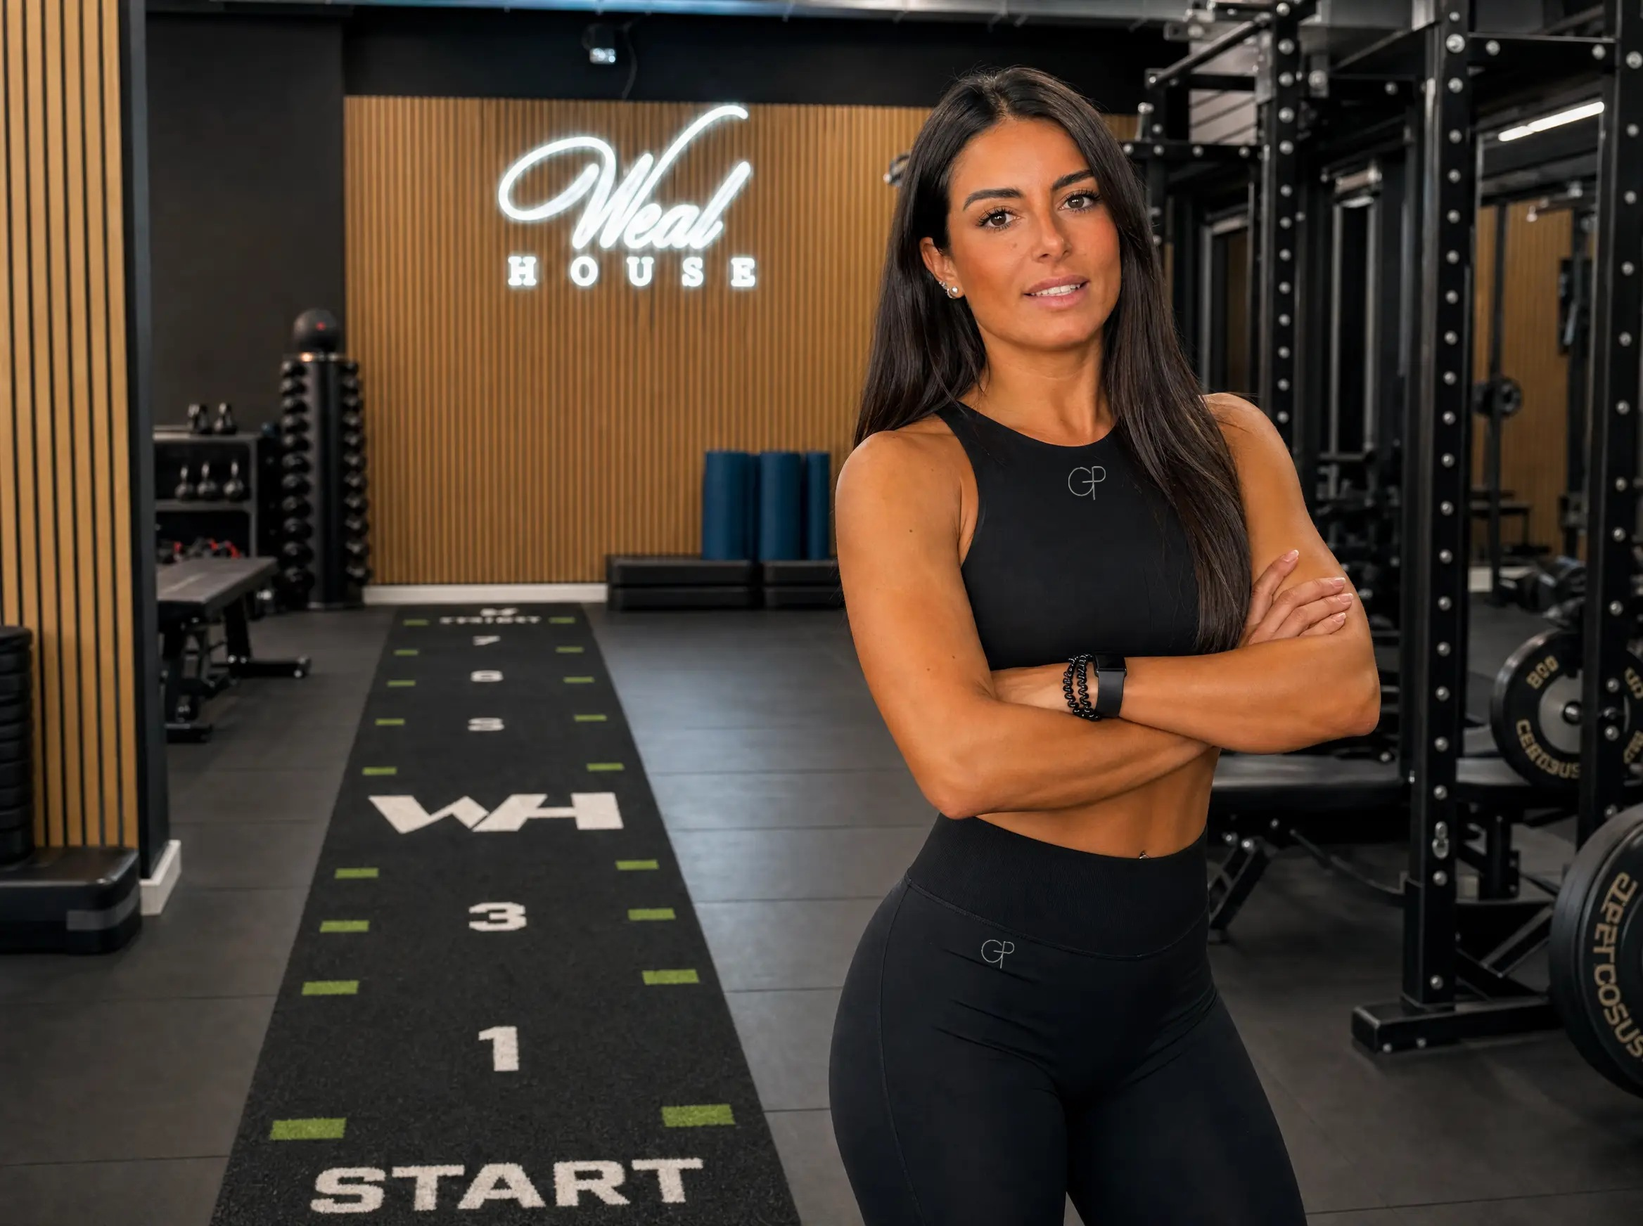
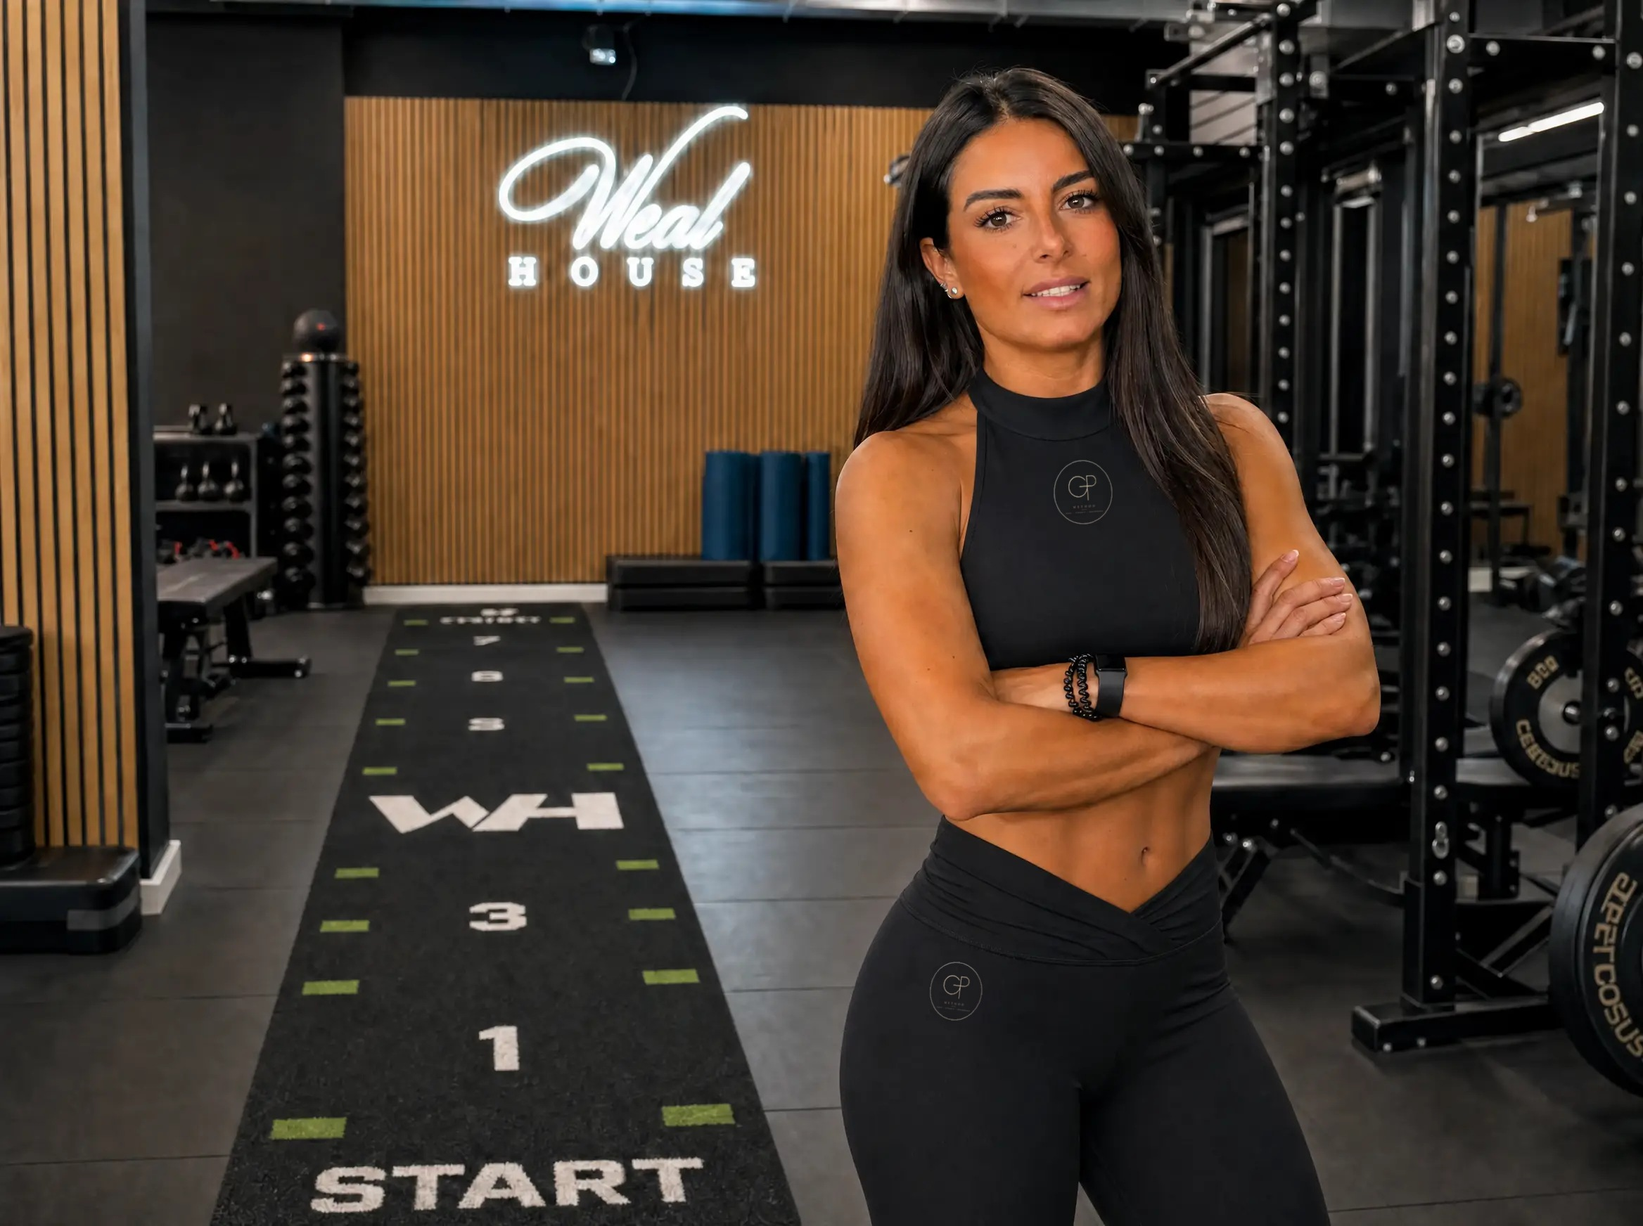
Hero a tutto schermo con header trasparente

diff --git a/chiaro/index.html b/chiaro/index.html
@@ -6,6 +6,7 @@
   <title>GP METHOD | Coaching online di Giorgia Piras</title>
   <meta name="description" content="Coaching online di Giorgia Piras, personal trainer a Roma: shape, strength e performance in cicli di 6 settimane. Tre livelli, da €149.">
   <meta name="theme-color" content="#EFE9E2">
+  <meta name="apple-mobile-web-app-status-bar-style" content="black-translucent">
   <meta name="color-scheme" content="light">
   <meta name="robots" content="noindex">
   <link rel="canonical" href="https://rodrigoapr01.github.io/gp-method/">
@@ -35,7 +36,7 @@
 <body class="is-home">
   <a class="skip" href="#main">Vai al contenuto</a>
   <header class="top">
-    <a class="brand" href="index.html"><picture><source type="image/webp" sizes="80px" srcset="../assets/brand/GP-logo-metallo-scuro-160.webp 160w, ../assets/brand/GP-logo-metallo-scuro-320.webp 320w, ../assets/brand/GP-logo-metallo-scuro-640.webp 640w"><img class="brand-logo" src="../assets/brand/GP-logo-metallo-scuro.png" width="80" height="80" alt="GP METHOD" fetchpriority="high" decoding="async"></picture></a>
+    <a class="brand" href="index.html"><picture><source media="(min-width: 900px)" type="image/webp" sizes="80px" srcset="../assets/brand/GP-logo-metallo-scuro-160.webp 160w, ../assets/brand/GP-logo-metallo-scuro-320.webp 320w, ../assets/brand/GP-logo-metallo-scuro-640.webp 640w"><source type="image/webp" sizes="80px" srcset="../assets/brand/GP-logo-metallo-chiaro-160.webp 160w, ../assets/brand/GP-logo-metallo-chiaro-320.webp 320w, ../assets/brand/GP-logo-metallo-chiaro-640.webp 640w"><img class="brand-logo" src="../assets/brand/GP-logo-metallo-chiaro.png" width="80" height="80" alt="GP METHOD" fetchpriority="high" decoding="async"></picture></a>
     <nav class="top-nav" aria-label="Principale"><a href="index.html#metodo">Metodo</a><a href="livelli.html">Livelli</a><a href="chi-sono.html">Chi sono</a></nav>
     <a class="btn btn--secondary btn--sm top-wa" data-wa="Ciao Giorgia, vorrei informazioni su GP METHOD." href="#contatti"><svg class="i-wa" viewBox="0 0 24 24" aria-hidden="true" focusable="false"><path fill="none" stroke="currentColor" stroke-width="1.6" stroke-linejoin="round" d="M20.5 11.7a8.4 8.4 0 0 1-12.4 7.4L3.5 20.5l1.4-4.4a8.4 8.4 0 1 1 15.6-4.4z"/><path fill="currentColor" d="M9.1 7.9c.2-.4.4-.4.6-.4h.5c.2 0 .4 0 .5.3l.7 1.7c.1.2 0 .4-.1.6l-.5.6c-.1.1-.2.3 0 .5a5.6 5.6 0 0 0 2.6 2.3c.2.1.4.1.5-.1l.7-.8c.2-.2.3-.2.5-.1l1.6.8c.2.1.3.2.3.3v.5c0 .5-.4 1.1-1 1.3-.6.3-1.6.3-3-.3a8.6 8.6 0 0 1-3.7-3.5c-.7-1.2-.6-2.3-.2-3.2z"/></svg><span>Scrivimi</span></a>
     <button class="menu-btn" type="button" aria-haspopup="dialog" aria-controls="menu" aria-label="Apri il menu"><span></span><span></span></button>
@@ -63,10 +64,10 @@
       </div>
       <figure class="hero-photo">
         <picture>
-          <source media="(max-width: 767px)" type="image/webp" srcset="../assets/hero/GP_hero_giorgia_mobile_5x4-900.webp?v=4 900w, ../assets/hero/GP_hero_giorgia_mobile_5x4.webp?v=4 2180w" sizes="100vw" width="2180" height="1744">
-          <source media="(max-width: 767px)" srcset="../assets/hero/GP_hero_giorgia_mobile_5x4.jpg?v=4" width="2180" height="1744">
-          <source type="image/webp" srcset="../assets/hero/GP_hero_giorgia_4x3-1280.webp?v=4 1280w, ../assets/hero/GP_hero_giorgia_4x3.webp?v=4 2336w" sizes="100vw" width="2336" height="1744">
-          <img src="../assets/hero/GP_hero_giorgia_4x3.jpg?v=4" width="2336" height="1744" alt="Giorgia Piras, personal trainer, nella palestra Weal House a Roma" fetchpriority="high" decoding="async">
+          <source media="(max-width: 767px)" type="image/webp" srcset="../assets/hero/GP_hero_giorgia_mobile_4x5-900.webp?v=5 900w, ../assets/hero/GP_hero_giorgia_mobile_4x5.webp?v=5 1395w" sizes="100vw" width="1395" height="1744">
+          <source media="(max-width: 767px)" srcset="../assets/hero/GP_hero_giorgia_mobile_4x5.jpg?v=5" width="1395" height="1744">
+          <source type="image/webp" srcset="../assets/hero/GP_hero_giorgia_4x3-1280.webp?v=5 1280w, ../assets/hero/GP_hero_giorgia_4x3.webp?v=5 2336w" sizes="100vw" width="2336" height="1744">
+          <img src="../assets/hero/GP_hero_giorgia_4x3.jpg?v=5" width="2336" height="1744" alt="Giorgia Piras, personal trainer, nella palestra Weal House a Roma" fetchpriority="high" decoding="async">
         </picture>
       </figure>
     </section>

diff --git a/styles.css b/styles.css
@@ -110,6 +110,8 @@ h1 { font-size: clamp(40px, 10.6vw, 84px); line-height: 1.02; text-wrap: balance
 .brand picture, .brand-logo { display: block; }
 .brand-logo { width: 64px; height: 64px; }
 .top-wa, .menu-btn { flex-shrink: 0; }
+/* phones: only logo and menu in the header (WhatsApp is in the hero, the menu and the fixed button) */
+@media (max-width: 767px) { .top .top-wa { display: none; } }
 .top-nav { display: none; }
 .top-wa { display: inline-flex; }
 .menu-btn {
@@ -144,16 +146,21 @@ h1 { font-size: clamp(40px, 10.6vw, 84px); line-height: 1.02; text-wrap: balance
 
 /* ---------- Home: hero (Giorgia at Weal House) ---------- */
 
-/* phones and tablets: solid header, the photo right under it, then the copy */
-.is-home .top { position: relative; background: var(--nero); padding-bottom: 12px; }
+/* full-screen hero: the photo starts at the very top (under the status bar, viewport-fit=cover) and the
+   header floats over it, transparent, on a soft dark gradient so logo and menu read on any photo */
+.is-home .top::before {
+  content: ''; position: absolute; inset: 0 0 auto 0; z-index: -1; pointer-events: none;
+  height: calc(env(safe-area-inset-top, 0px) + 140px);
+  background: linear-gradient(180deg, rgba(25, 23, 22, 0.55) 0%, rgba(25, 23, 22, 0) 100%);
+}
+/* phones and tablets: photo first (at least 85svh), the copy below; the photo fades into the hero colour */
 .hero { display: grid; padding: 0 var(--gutter) calc(env(safe-area-inset-bottom, 0px) + 32px); }
-.hero-photo { position: relative; order: -1; margin: 0 calc(var(--gutter) * -1) 28px; aspect-ratio: 5 / 4; }
-.hero-photo picture { display: block; height: 100%; }
-.hero-photo img { width: 100%; height: 100%; object-fit: cover; }
-/* fades into nero: ~12% at the top, ~20% at the bottom */
+.hero-photo { position: relative; order: -1; margin: 0 calc(var(--gutter) * -1) 28px; min-height: 85vh; min-height: 85svh; }
+.hero-photo picture { position: absolute; inset: 0; display: block; }
+.hero-photo img { width: 100%; height: 100%; object-fit: cover; object-position: 60% 0%; }
 .hero-photo::after { content: ''; position: absolute; inset: 0; pointer-events: none;
-  background: linear-gradient(180deg, var(--nero) 0%, rgba(25, 23, 22, 0) 12%, rgba(25, 23, 22, 0) 80%, var(--nero) 100%); }
-@media (min-width: 768px) { .hero-photo { aspect-ratio: 4 / 3; } }
+  background: linear-gradient(180deg, rgba(25, 23, 22, 0) 0%, rgba(25, 23, 22, 0) 62%, var(--nero) 100%); }
+@media (min-width: 768px) { .hero-photo img { object-position: 70% 0%; } }
 .hero-copy { display: grid; gap: 18px; justify-items: start; }
 .hero .kicker { margin: 0; }
 .hero-name { margin: 0; font-family: var(--serif); font-weight: 500; font-size: clamp(52px, 19vw, 120px); line-height: 0.92; letter-spacing: -0.01em; }
@@ -490,10 +497,9 @@ h1 { font-size: clamp(40px, 10.6vw, 84px); line-height: 1.02; text-wrap: balance
   .top-nav a[aria-current="page"] { text-decoration: underline; text-decoration-color: var(--bronzo); }
 
   /* desktop: the 4:3 photo fills the hero, Giorgia on the right, the copy on the left over a dark gradient */
-  .is-home .top { position: absolute; background: none; padding-bottom: 0; }
   .hero { position: relative; min-height: 100vh; min-height: 100svh; padding: 0 max(var(--gutter), calc((100% - var(--max)) / 2)); isolation: isolate; }
   .hero-copy { align-self: center; max-width: min(40vw, 600px); padding: 140px 0 56px; }
-  .hero-photo { position: absolute; inset: 0; z-index: -1; margin: 0; aspect-ratio: auto; }
+  .hero-photo { position: absolute; inset: 0; z-index: -1; margin: 0; min-height: 0; }
   .hero-photo img { object-position: 70% 20%; }
   .hero-photo::after { background:
     linear-gradient(90deg, rgba(25, 23, 22, 0.85) 0%, rgba(25, 23, 22, 0.85) 36%, rgba(25, 23, 22, 0) 55%),

diff --git a/chiaro/css/tema-chiaro.css b/chiaro/css/tema-chiaro.css
@@ -34,12 +34,16 @@
   color: #E0E2DB;
 }
 
-/* hero photo on phones: fades into avorio (transparent avorio stops, so no grey band) */
-.hero-photo::after { background: linear-gradient(180deg, #EFE9E2 0%, rgba(239, 233, 226, 0) 12%, rgba(239, 233, 226, 0) 80%, #EFE9E2 100%); }
+/* hero photo on phones: fades into avorio at the bottom (transparent avorio stops, so no grey band) */
+.hero-photo::after { background: linear-gradient(180deg, rgba(239, 233, 226, 0) 0%, rgba(239, 233, 226, 0) 62%, #EFE9E2 100%); }
 
-/* header: solid avorio everywhere */
-.top { background: var(--nero); padding-bottom: 12px; }
+/* header: solid avorio on the inner pages; on the home it floats over the photo (see the hero rules) */
+.is-inner .top { background: var(--nero); padding-bottom: 12px; }
 .menu-btn span { background: var(--pietra); }
+/* home on phones: header over the photo, light on the dark gradient (light metal logo, see build-pages) */
+@media (max-width: 899px) {
+  .is-home .top .menu-btn span { background: #E0E2DB; }
+}
 
 /* buttons: primary espresso / avorio, secondary bronze border */
 .btn--primary { background: #2E2620; color: #EFE9E2; }
@@ -55,11 +59,13 @@
   .btn--dark:hover { background: #000; }
 }
 
-/* desktop hero: split, text on avorio at left, Giorgia at right (~55%), no dark gradient */
+/* desktop hero: split, text on avorio at left, Giorgia at right (~55%) from the very top, header floating over both:
+   dark metal logo on avorio, light nav over the photo with a soft dark gradient on the photo's top */
 @media (min-width: 900px) {
-  .is-home .top { position: relative; background: var(--nero); padding-bottom: 12px; }
-  .hero { min-height: calc(100vh - 104px); min-height: calc(100svh - 104px); }
-  .hero-copy { padding: 64px 0; }
+  .is-home .top::before { display: none; }
+  .is-home .top-nav a, .is-home .top .top-wa { color: #E0E2DB; }
   .hero-photo { left: 45%; }
-  .hero-photo::after { background: linear-gradient(90deg, #EFE9E2 0%, rgba(239, 233, 226, 0) 10%); }
+  .hero-photo::after { background:
+    linear-gradient(180deg, rgba(25, 23, 22, 0.55) 0%, rgba(25, 23, 22, 0) 140px),
+    linear-gradient(90deg, #EFE9E2 0%, rgba(239, 233, 226, 0) 10%); }
 }

diff --git a/index.html b/index.html
@@ -6,6 +6,7 @@
   <title>GP METHOD | Coaching online di Giorgia Piras</title>
   <meta name="description" content="Coaching online di Giorgia Piras, personal trainer a Roma: shape, strength e performance in cicli di 6 settimane. Tre livelli, da €149.">
   <meta name="theme-color" content="#191716">
+  <meta name="apple-mobile-web-app-status-bar-style" content="black-translucent">
   <meta name="color-scheme" content="dark">
   <link rel="canonical" href="https://rodrigoapr01.github.io/gp-method/">
   <meta property="og:type" content="website">
@@ -61,10 +62,10 @@
       </div>
       <figure class="hero-photo">
         <picture>
-          <source media="(max-width: 767px)" type="image/webp" srcset="assets/hero/GP_hero_giorgia_mobile_5x4-900.webp?v=4 900w, assets/hero/GP_hero_giorgia_mobile_5x4.webp?v=4 2180w" sizes="100vw" width="2180" height="1744">
-          <source media="(max-width: 767px)" srcset="assets/hero/GP_hero_giorgia_mobile_5x4.jpg?v=4" width="2180" height="1744">
-          <source type="image/webp" srcset="assets/hero/GP_hero_giorgia_4x3-1280.webp?v=4 1280w, assets/hero/GP_hero_giorgia_4x3.webp?v=4 2336w" sizes="100vw" width="2336" height="1744">
-          <img src="assets/hero/GP_hero_giorgia_4x3.jpg?v=4" width="2336" height="1744" alt="Giorgia Piras, personal trainer, nella palestra Weal House a Roma" fetchpriority="high" decoding="async">
+          <source media="(max-width: 767px)" type="image/webp" srcset="assets/hero/GP_hero_giorgia_mobile_4x5-900.webp?v=5 900w, assets/hero/GP_hero_giorgia_mobile_4x5.webp?v=5 1395w" sizes="100vw" width="1395" height="1744">
+          <source media="(max-width: 767px)" srcset="assets/hero/GP_hero_giorgia_mobile_4x5.jpg?v=5" width="1395" height="1744">
+          <source type="image/webp" srcset="assets/hero/GP_hero_giorgia_4x3-1280.webp?v=5 1280w, assets/hero/GP_hero_giorgia_4x3.webp?v=5 2336w" sizes="100vw" width="2336" height="1744">
+          <img src="assets/hero/GP_hero_giorgia_4x3.jpg?v=5" width="2336" height="1744" alt="Giorgia Piras, personal trainer, nella palestra Weal House a Roma" fetchpriority="high" decoding="async">
         </picture>
       </figure>
     </section>

diff --git a/livelli.html b/livelli.html
@@ -6,6 +6,7 @@
   <title>Livelli e prezzi | GP METHOD, coaching online</title>
   <meta name="description" content="Essential €149, Coaching €249, Elite €399: tre livelli di coaching online GP METHOD con Giorgia Piras, ogni ciclo dura 6 settimane.">
   <meta name="theme-color" content="#191716">
+  <meta name="apple-mobile-web-app-status-bar-style" content="black-translucent">
   <meta name="color-scheme" content="dark">
   <link rel="canonical" href="https://rodrigoapr01.github.io/gp-method/livelli.html">
   <meta property="og:type" content="website">

diff --git a/chiaro/livelli.html b/chiaro/livelli.html
@@ -6,6 +6,7 @@
   <title>Livelli e prezzi | GP METHOD, coaching online</title>
   <meta name="description" content="Essential €149, Coaching €249, Elite €399: tre livelli di coaching online GP METHOD con Giorgia Piras, ogni ciclo dura 6 settimane.">
   <meta name="theme-color" content="#EFE9E2">
+  <meta name="apple-mobile-web-app-status-bar-style" content="black-translucent">
   <meta name="color-scheme" content="light">
   <meta name="robots" content="noindex">
   <link rel="canonical" href="https://rodrigoapr01.github.io/gp-method/livelli.html">

diff --git a/chi-sono.html b/chi-sono.html
@@ -6,6 +6,7 @@
   <title>Chi sono | Giorgia Piras, GP METHOD</title>
   <meta name="description" content="Giorgia Piras, personal trainer a Roma. Co-fondatrice di Weal House. La palestra di Via Michele Amari 51 dove nasce GP METHOD.">
   <meta name="theme-color" content="#191716">
+  <meta name="apple-mobile-web-app-status-bar-style" content="black-translucent">
   <meta name="color-scheme" content="dark">
   <link rel="canonical" href="https://rodrigoapr01.github.io/gp-method/chi-sono.html">
   <meta property="og:type" content="website">

diff --git a/chiaro/chi-sono.html b/chiaro/chi-sono.html
@@ -6,6 +6,7 @@
   <title>Chi sono | Giorgia Piras, GP METHOD</title>
   <meta name="description" content="Giorgia Piras, personal trainer a Roma. Co-fondatrice di Weal House. La palestra di Via Michele Amari 51 dove nasce GP METHOD.">
   <meta name="theme-color" content="#EFE9E2">
+  <meta name="apple-mobile-web-app-status-bar-style" content="black-translucent">
   <meta name="color-scheme" content="light">
   <meta name="robots" content="noindex">
   <link rel="canonical" href="https://rodrigoapr01.github.io/gp-method/chi-sono.html">

diff --git a/tools/build-pages.py b/tools/build-pages.py
@@ -17,6 +17,7 @@ WA_ICON = ('<svg class="i-wa" viewBox="0 0 24 24" aria-hidden="true" focusable="
 # official logo: the round metal logo without background (assets/brand): the light metal on the dark pages,
 # the dark metal on /chiaro/ (swapped in write_chiaro). The flat files in assets/brand/lineare stay for print only.
 LOGO_ROUND = "assets/brand/GP-logo-metallo-chiaro"
+LOGO_DARK = "assets/brand/GP-logo-metallo-scuro"
 FAVICON = "assets/brand/favicon"
 
 
@@ -46,7 +47,15 @@ def wa_btn(msg, label, cls="btn btn--primary"):
 
 def write_chiaro(file, html):
     import re
+    if file == "index.html":
+        # home header: over the photo on phones (light metal), over avorio from 900px (dark metal)
+        a = html.index('<header class="top">'); b = html.index('</header>', a)
+        head = html[a:b].replace('<picture><source type="image/webp"',
+                                 '<picture><source media="(min-width: 900px)" type="image/webp" sizes="80px" srcset="'
+                                 f'{LOGO_DARK}-160.webp 160w, {LOGO_DARK}-320.webp 320w, {LOGO_DARK}-640.webp 640w"><source type="image/webp"', 1)
+        html = html[:a] + head.replace("GP-logo-metallo-chiaro", "@@KEEP@@") + html[b:]
     html = html.replace("GP-logo-metallo-chiaro", "GP-logo-metallo-scuro")  # dark metal on avorio
+    html = html.replace("@@KEEP@@", "GP-logo-metallo-chiaro")
     html = re.sub(r'(?<=["\s,])assets/', '../assets/', html)  # every local asset, srcset entries included
     html = html.replace('href="styles.css">', 'href="../styles.css">\n  <link rel="stylesheet" href="css/tema-chiaro.css">')
     html = html.replace('src="main.js"', 'src="../main.js"')
@@ -69,6 +78,7 @@ def page(file, title, desc, body, wa_msg, extra_head="", home=False):
   <title>{title}</title>
   <meta name="description" content="{desc}">
   <meta name="theme-color" content="#191716">
+  <meta name="apple-mobile-web-app-status-bar-style" content="black-translucent">
   <meta name="color-scheme" content="dark">
   <link rel="canonical" href="{BASE}{'' if file == 'index.html' else file}">
   <meta property="og:type" content="website">
@@ -196,10 +206,10 @@ home = f"""    <section class="hero" aria-labelledby="hero-title">
       </div>
       <figure class="hero-photo">
         <picture>
-          <source media="(max-width: 767px)" type="image/webp" srcset="assets/hero/GP_hero_giorgia_mobile_5x4-900.webp?v=4 900w, assets/hero/GP_hero_giorgia_mobile_5x4.webp?v=4 2180w" sizes="100vw" width="2180" height="1744">
-          <source media="(max-width: 767px)" srcset="assets/hero/GP_hero_giorgia_mobile_5x4.jpg?v=4" width="2180" height="1744">
-          <source type="image/webp" srcset="assets/hero/GP_hero_giorgia_4x3-1280.webp?v=4 1280w, assets/hero/GP_hero_giorgia_4x3.webp?v=4 2336w" sizes="100vw" width="2336" height="1744">
-          <img src="assets/hero/GP_hero_giorgia_4x3.jpg?v=4" width="2336" height="1744" alt="Giorgia Piras, personal trainer, nella palestra Weal House a Roma" fetchpriority="high" decoding="async">
+          <source media="(max-width: 767px)" type="image/webp" srcset="assets/hero/GP_hero_giorgia_mobile_4x5-900.webp?v=5 900w, assets/hero/GP_hero_giorgia_mobile_4x5.webp?v=5 1395w" sizes="100vw" width="1395" height="1744">
+          <source media="(max-width: 767px)" srcset="assets/hero/GP_hero_giorgia_mobile_4x5.jpg?v=5" width="1395" height="1744">
+          <source type="image/webp" srcset="assets/hero/GP_hero_giorgia_4x3-1280.webp?v=5 1280w, assets/hero/GP_hero_giorgia_4x3.webp?v=5 2336w" sizes="100vw" width="2336" height="1744">
+          <img src="assets/hero/GP_hero_giorgia_4x3.jpg?v=5" width="2336" height="1744" alt="Giorgia Piras, personal trainer, nella palestra Weal House a Roma" fetchpriority="high" decoding="async">
         </picture>
       </figure>
     </section>

diff --git a/DESIGN.md b/DESIGN.md
@@ -34,11 +34,14 @@ Tipografia: **Cormorant Garamond** 500 per titoli e numeri (è il carattere di M
 Forma: bottoni a pillola 52px (primario pietra/nero, secondario bordo bronzo/testo pietra); card e foto con raggio 14px; filetti 1px bronzo.
 Motion: accensione dei neon USP (~600ms, una volta), poi la riga rossa "ronza" (tre cali ogni 4,5s, mai spenta) e fa un glitch di 1s al passaggio del mouse, al tocco e, sui telefoni, ogni volta che entra nello schermo (max 3 lampi/s, WCAG 2.3.1); i pilastri del metodo si aprono come "Cosa include" (stessa transizione 220ms); le tappe del ciclo mostrano una riga sotto (nessuna animazione), "Cosa include" (altezza + opacità, 220ms, `cubic-bezier(0.23,1,0.32,1)`), `scale(0.97)` su :active (160ms). Nessuno scroll-reveal; tutto il testo visibile senza JS.
 
-## 2a. Hero (ottobre 2026)
-Foto di Giorgia a Weal House (`assets/hero/`): 5:4 sotto 768px, 4:3 da 768px; WebP q82 con versioni leggere (900w / 1280w), JPG di riserva, `fetchpriority="high"` (è l'LCP).
-- Sotto 900px: header pieno #191716, foto subito sotto a tutta larghezza, sfumata in nero (12% sopra, 20% sotto), poi testo.
-- Da 900px: foto a tutta larghezza dell'hero (`object-position: 70% 20%`), Giorgia a destra, testo a sinistra su gradiente scuro.
-Testo: "Giorgia Piras", "Personal trainer a Roma", filetto bronzo, una frase, un bottone, riga Weal House.
+## 2a. Hero a tutto schermo (ottobre 2026)
+Foto di Giorgia a Weal House (`assets/hero/`, `?v=5`): 4:5 sotto 768px, 4:3 da 768px; WebP q82 con versioni leggere (900w / 1280w), JPG di riserva, `fetchpriority="high"` (è l'LCP).
+- La foto parte dal bordo superiore (sotto la barra di stato: `viewport-fit=cover`, header con `env(safe-area-inset-top)`); l'header è trasparente sopra la foto, con un gradiente #191716 55% → trasparente in 140px. Scorre via con la pagina (non è fisso).
+- Sotto 768px l'header mostra solo logo e menu ("Scrivimi" è nell'hero, nel menu e nel bottone fisso).
+- Sotto 900px: foto alta almeno 85svh (`object-position: 60% 0`, 70% da 768px), che sfuma in basso nel colore dell'hero; poi il testo.
+- Da 900px: foto a tutta larghezza e 100svh, testo a sinistra sul gradiente scuro. In /chiaro/: foto a destra (55%) dal bordo superiore, logo scuro su avorio, nav chiara sopra la foto.
+- `theme-color` #191716 (scuro) / #EFE9E2 (chiaro), `apple-mobile-web-app-status-bar-style` black-translucent.
+Testo: "Giorgia Piras", "Personal trainer a Roma", filetto bronzo, una frase, bottone WhatsApp, riga Weal House.
 
 ## 2b. Logo ufficiale: tondo in metallo, senza sfondo (ottobre 2026)
 `assets/brand/GP-logo-metallo-chiaro.*` (metallo chiaro) nelle pagine scure, `GP-logo-metallo-scuro.*` (metallo scuro) in /chiaro/; PNG trasparente + WebP 160/320/640 con srcset, alt "GP METHOD", width/height espliciti.
